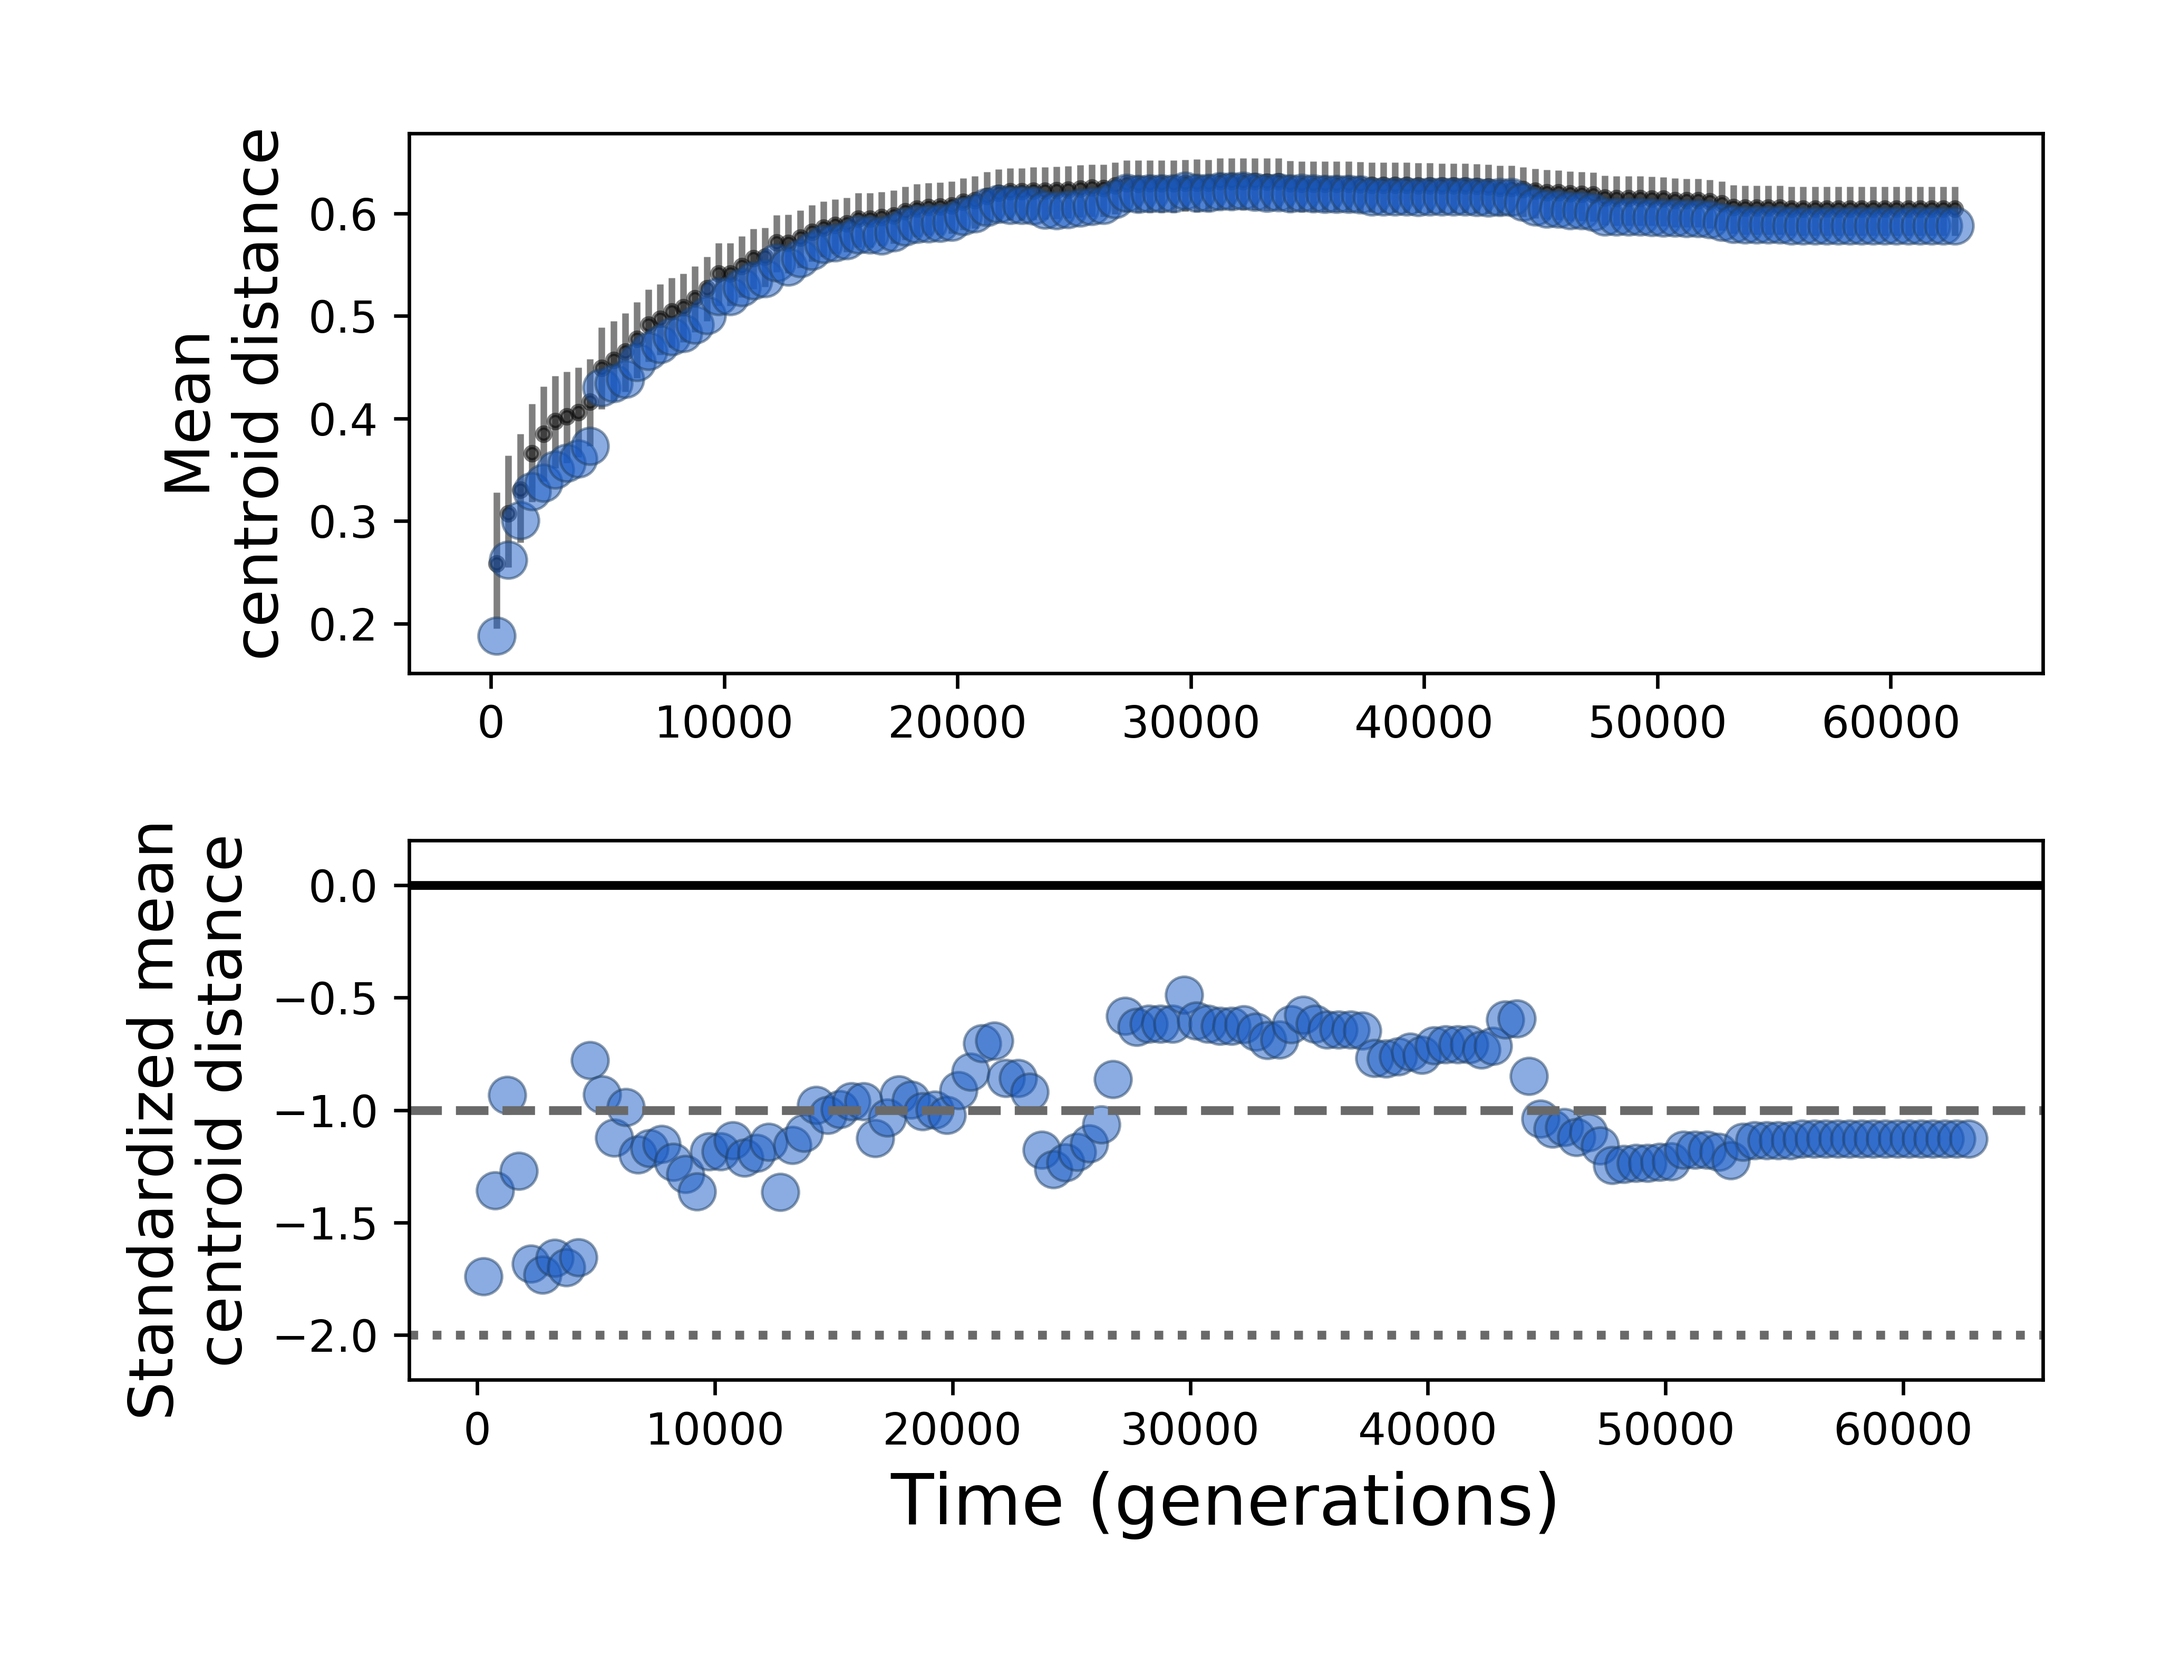
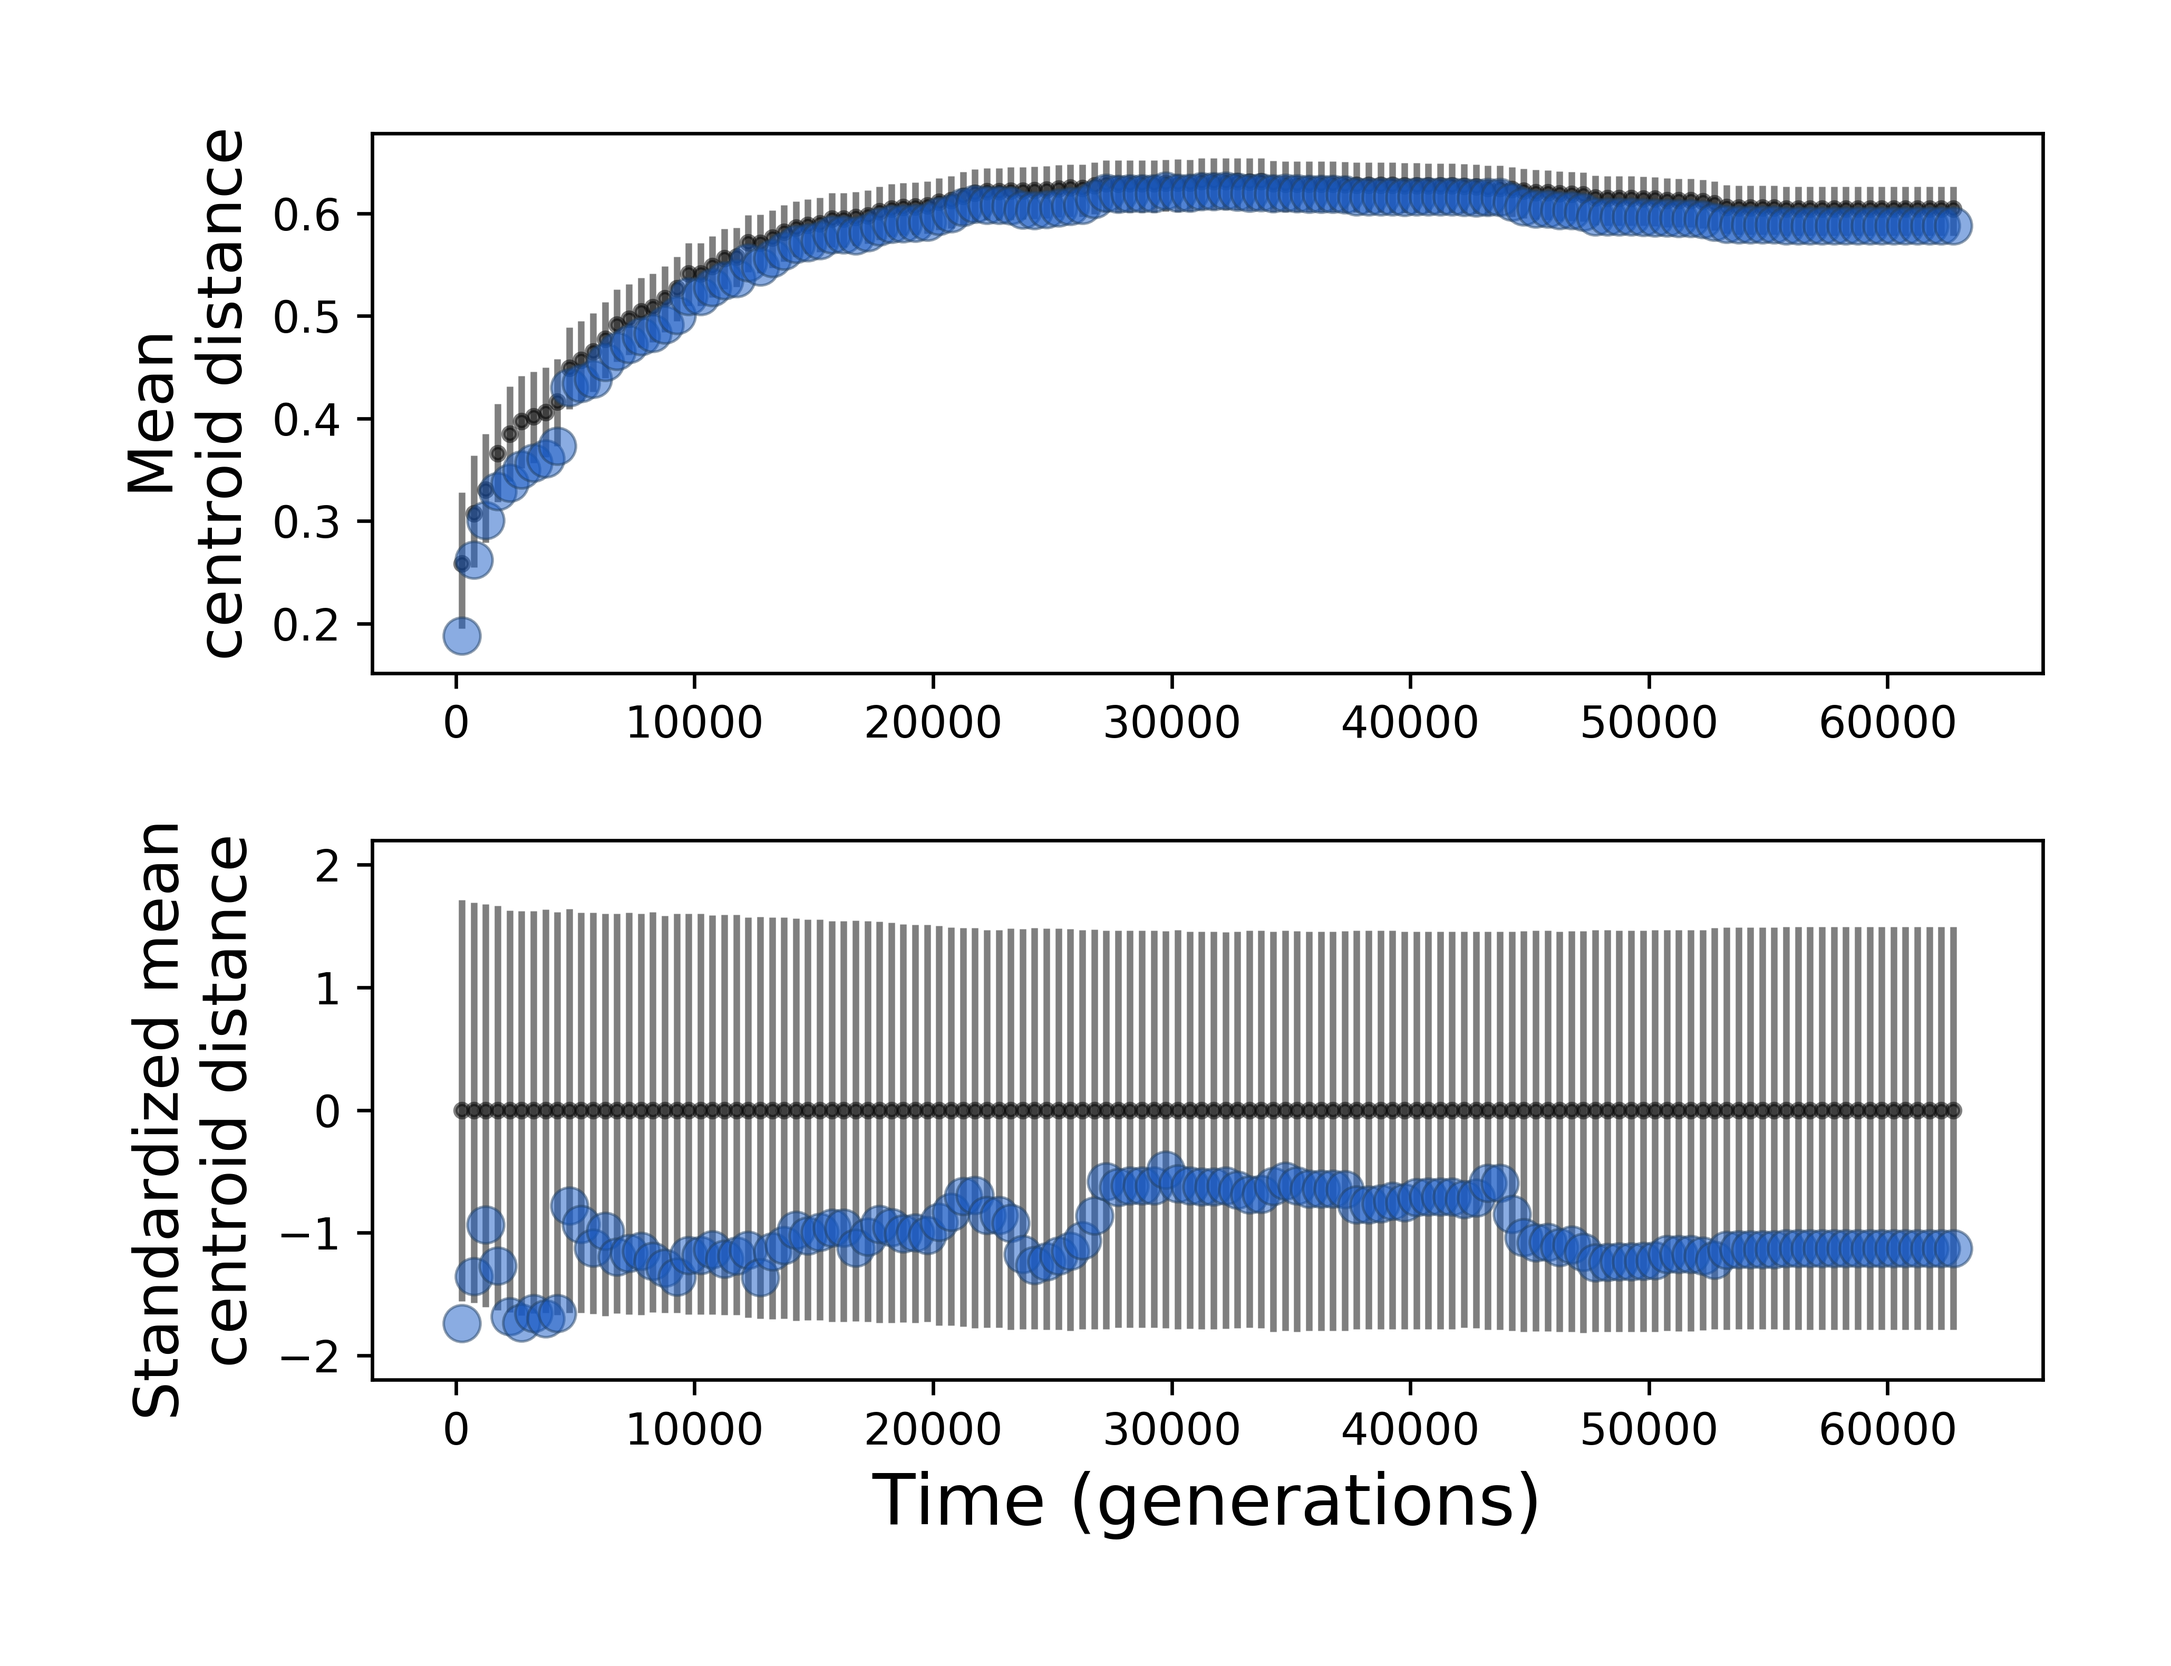
sample size permutation fig added

diff --git a/Python/make_figs.py b/Python/make_figs.py
@@ -164,14 +164,21 @@ def plot_permutation(dataset, analysis = 'PCA', alpha = 0.05):
         upper_ci = []
         mean_mcds = []
         std_mcds = []
+        lower_z_ci = []
+        upper_z_ci = []
         for x in mcd_perm_x:
             mcd_perm_y = mcd_perm.loc[mcd_perm['Generation'] == x]
             mcd_perm_y_sort = np.sort(mcd_perm_y.MCD.tolist())
             mean_mcd_perm_y = np.mean(mcd_perm_y_sort)
+            std_mcd_perm_y = np.std(mcd_perm_y_sort)
             mean_mcds.append(mean_mcd_perm_y)
-            std_mcds.append(np.std(mcd_perm_y_sort))
+            std_mcds.append(std_mcd_perm_y)
             lower_ci.append(mean_mcd_perm_y - mcd_perm_y_sort[int(len(mcd_perm_y_sort) * alpha)])
             upper_ci.append(abs(mean_mcd_perm_y - mcd_perm_y_sort[int(len(mcd_perm_y_sort) * (1 - alpha))]))
+            # z-scores
+            mcd_perm_y_sort_z = [ ((i - mean_mcd_perm_y) /  std_mcd_perm_y) for i in mcd_perm_y_sort]
+            lower_z_ci.append(abs(mcd_perm_y_sort_z[int(len(mcd_perm_y_sort_z) * alpha)]))
+            upper_z_ci.append(abs(mcd_perm_y_sort_z[int(len(mcd_perm_y_sort_z) * (1 - alpha))]))
 
         fig = plt.figure()
 
@@ -185,19 +192,19 @@ def plot_permutation(dataset, analysis = 'PCA', alpha = 0.05):
         #plt.xlabel("Time (generations)", fontsize = 16)
         plt.ylabel("Mean \n centroid distance", fontsize = 14)
 
-
         plt.figure(1)
         plt.subplot(212)
+        plt.errorbar(mcd_perm_x, [0] * len(mcd_perm_x), yerr = [lower_z_ci, upper_z_ci], fmt = 'o', alpha = 0.5, \
+            barsabove = True, marker = '.', mfc = 'k', mec = 'k', c = 'k', zorder=1)
         # zip mean, std, and measured values to make z-scores
         zip_list = list(zip(mean_mcds, std_mcds, mcds))
         z_scores = [((i[2] - i[0]) / i[1]) for i in zip_list ]
-
         plt.scatter(time_points_set, z_scores, c='#175ac6', marker = 'o', s = 70, \
             edgecolors='#244162', linewidth = 0.6, alpha = 0.5, zorder=2)#, edgecolors='none')
-        plt.ylim(-2.2, 0.2)
-        plt.axhline(0, color = 'k', lw = 2, ls = '-')
-        plt.axhline(-1, color = 'dimgrey', lw = 2, ls = '--')
-        plt.axhline(-2, color = 'dimgrey', lw = 2, ls = ':')
+        plt.ylim(-2.2, 2.2)
+        #plt.axhline(0, color = 'k', lw = 2, ls = '-')
+        #plt.axhline(-1, color = 'dimgrey', lw = 2, ls = '--')
+        #plt.axhline(-2, color = 'dimgrey', lw = 2, ls = ':')
         plt.xlabel("Time (generations)", fontsize = 16)
         plt.ylabel("Standardized mean \n centroid distance", fontsize = 14)
 
@@ -207,6 +214,37 @@ def plot_permutation(dataset, analysis = 'PCA', alpha = 0.05):
 
     else:
         print('Dataset argument not accepted')
+
+
+def plot_permutation_sample_size():
+    df_path = pt.get_path() + '/data/Tenaillon_et_al/gene_by_pop.txt'
+    df = pd.read_csv(df_path, sep = '\t', header = 'infer', index_col = 0)
+    df_delta = pt.likelihood_matrix(df, 'Tenaillon_et_al').get_likelihood_matrix()
+    X = pt.hellinger_transform(df_delta)
+    pca = PCA()
+    df_out = pca.fit_transform(X)
+    mcd = pt.get_mean_centroid_distance(df_out, k = 3)
+
+    df_sample_path = pt.get_path() + '/data/Tenaillon_et_al/sample_size_permute_PCA.txt'
+    df_sample = pd.read_csv(df_sample_path, sep = '\t', header = 'infer')#, index_col = 0)
+    sample_sizes = sorted(list(set(df_sample.Sample_size.tolist())))
+
+    fig = plt.figure()
+    plt.axhline(mcd, color = 'k', lw = 3, ls = '--', zorder = 1)
+    for sample_size in sample_sizes:
+        df_sample_size = df_sample.loc[df_sample['Sample_size'] == sample_size]
+        x_sample_size = df_sample_size.Sample_size.values
+        y_sample_size = df_sample_size.MCD.values
+        plt.scatter(x_sample_size, y_sample_size, c='#175ac6', marker = 'o', s = 70, \
+            edgecolors='#244162', linewidth = 0.6, alpha = 0.3, zorder=2)#, edgecolors='none')
+
+    plt.xlabel("Number of replicate populations", fontsize = 16)
+    plt.ylabel("Mean centroid distance", fontsize = 16)
+
+    fig.tight_layout()
+    fig.savefig(pt.get_path() + '/figs/plot_permutation_sample_size_tenaillon.png', bbox_inches = "tight", pad_inches = 0.4, dpi = 600)
+    plt.close()
+
 
 
 
@@ -384,4 +422,5 @@ def plot_cluster():
 #example_gene_space()
 #plot_permutation('good')
 #plot_network()
-plot_kmax_over_time()
+#plot_kmax_over_time()
+plot_permutation_sample_size()
